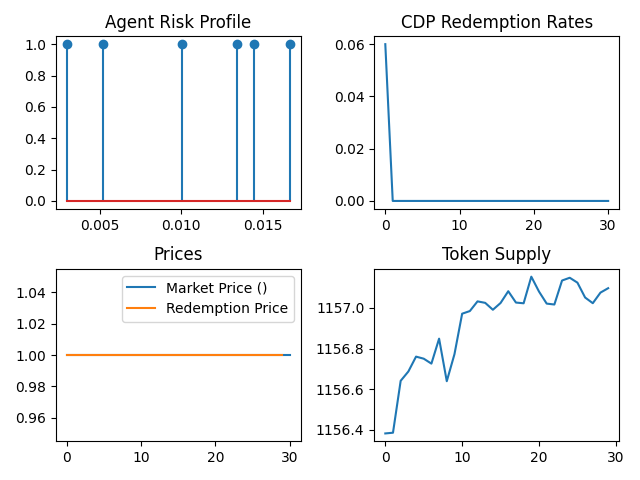
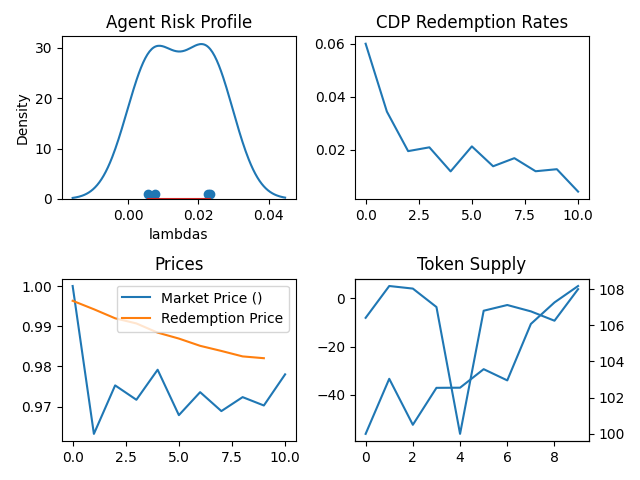
first version of integrated PID, GBM, and Daisim

diff --git a/feedback_sim.py b/feedback_sim.py
@@ -5,17 +5,13 @@ import matplotlib.pyplot as plt
 from daisim.util import set_defaults, SimState
 import numpy as np
 from dataclasses import dataclass, fields
+import seaborn as sns
 
 init_price=1.0
-SAMPLE=6
-DAYS=30
-rai=PID(initial_market_price=1.0, KP=.5) # TODO: Tune PID with Ziegler Method (Rudra?)
+SAMPLE=5
+DAYS=20
+rai=PID(initial_market_price=1.0, KP=.1) # TODO: Tune PID with Ziegler Method (Rudra?)
 params=set_defaults(SAMPLE,DAYS) #NOTE read  CDPRates, TXFs from config, sample = num agents ( as many as necessary to decently capture info )
-
-# NOTE: add some skew here where more risk-tolerant investors exist and risk-averse
-tolerant=[max((.005)-(.002)*i,.0001) for i in range(1,4)] #NOTE: must not be non-negative
-averse=[(.005)+(.002)*i for i in range(1,4)]
-averse.reverse()
 
 #NOTE: a particular hard-coded distribution where more risk-tolerant investors exist and risk-averse
 # tolerant=[max((.005)-(.002)*i,.0001) for i in range(1,4)] #NOTE: must not be non-negative
@@ -24,7 +20,7 @@ averse.reverse()
 params.lambdas=abs(np.random.normal(.005,.01,size=SAMPLE))
 
 # NOTE: Add Risk Bias Factor
-bias = 0.002
+bias = 0.005
 params.lambdas = [lam+bias for lam in params.lambdas]
 
 #NOTE: uncomment to see starter settings
@@ -42,7 +38,8 @@ ASSETS=get_assets(params.num_investors)
 RISK = params.lambdas
 
 # NOTE: Refactor the sim.py file into a "closed-loop" system with PID.py 
-def run_step( params : SimState , logdir = "sim-logs", logger=False, runs=1, display=False
+def run_step( params : SimState , logdir = "sim-logs", logger=False, runs=1, display=False, fig_suffix="", figdir="", 
+    controller=PID(initial_market_price=1.0, KP=.1)
 ):
     assets_runs,risk_params=generate_assets_and_risk(params.num_investors,"normal",runs)
     asset_history=[]
@@ -53,9 +50,8 @@ def run_step( params : SimState , logdir = "sim-logs", logger=False, runs=1, dis
 
     cur_assets=assets_runs # size should be (1, n, 4)  --> 1 run, n users, 4 assets 
     cur_dai_price = 1
-    
+
     for day in range(0, DAYS):
-        
         #--------------- MARKET SIM BLOCK -----------------------------------
         s = Simulator(
             belief_factor=params.belief_factor, rho=params.rho, cdpRate=params.cdp_rate, 
@@ -66,7 +62,9 @@ def run_step( params : SimState , logdir = "sim-logs", logger=False, runs=1, dis
         )
         s.dai_price = cur_dai_price
         dai_price, market_dai = s.run_simulation()
-        
+        dai_price=dai_price+np.random.normal(loc=0.0,scale=.005)
+        print("Check Market Change: ", market_dai)
+    
         # Definition of USER
         #  users = [User(self.initial_distribution[i], self.rho) for i in range(len(self.initial_distribution))]
 
@@ -79,11 +77,12 @@ def run_step( params : SimState , logdir = "sim-logs", logger=False, runs=1, dis
         # --------------- RESPONSE BLOCK -------------------------
         # TODO: Ensure Information Passing is Correct
         # TODO: probably check on the convert price to rate function too
-        rai.compute_error(dai_price)
-        rai.compute_new_redemption_price() 
-        p_redeem=rai.read_redemption_price()
+        controller.compute_error(dai_price)
+        controller.compute_new_redemption_price() 
+        p_redeem=controller.read_redemption_price()
         params.cdp_rate = convert_price_to_rate(p_redeem, dai_price)
-        if day % 2 == 0:
+        
+        if day % 5 == 0:
             print("day :", day)
 
         if (display):
@@ -94,11 +93,11 @@ def run_step( params : SimState , logdir = "sim-logs", logger=False, runs=1, dis
             print("New Redemption Price: ", p_redeem)
             print("New CDP Rate: ", params.cdp_rate)
             print("\n Check Rai Controller State")
-            print("Rai redeem price:" , rai.pr)
-            print("Rai Error", rai.errors)
-            print(rai.kp)
-            print(rai.target)
-            print(rai.mode)
+            print("Rai redeem price:" , controller.pr)
+            print("Rai Error", controller.errors)
+            print(controller.kp)
+            print(controller.target)
+            print(controller.mode)
             print("-----------------------\n")
 
         # NOTE Save Data   -- store asset_history and dump into a separate pickle file
@@ -106,13 +105,16 @@ def run_step( params : SimState , logdir = "sim-logs", logger=False, runs=1, dis
         cdp_rate_history.append(params.cdp_rate)
         dai_price_history.append(dai_price)
         market_dai_history.append(market_dai)
-        rai_price_history.append(rai.pr)
+        rai_price_history.append(controller.pr)
     
     from collections import Counter
     count_d=Counter(params.lambdas)
+    import pandas as pd
+    df=pd.DataFrame(params.lambdas,columns=["lambdas"])
     fig,ax=plt.subplots(2,2)
-    ax[0,0].stem(list(count_d.keys()), list(count_d.values()))
+    # ax[0,0].stem(list(count_d.keys()), list(count_d.values()))
     ax[0,0].set_title("Agent Risk Profile")
+    sns.kdeplot(df, x="lambdas", common_norm=False, ax=ax[0,0])
     ax[0,1].plot(cdp_rate_history)
     ax[0,1].set_title("CDP Redemption Rates")
     ax[1,0].plot(dai_price_history, label="Market Price ()")
@@ -120,14 +122,19 @@ def run_step( params : SimState , logdir = "sim-logs", logger=False, runs=1, dis
     ax[1,0].set_title("Prices")
     ax[1,1].plot(market_dai_history, label="Token Supply")
     ax[1,1].set_title("Token Supply")
+    ax2 = ax[1,1].twinx()
+    ax[1,1].set_ylabel('Token Supply')
+    ax2.plot(params.eth_price_per_day,color="firebrick",label="Eth Price Path")
+    ax2.set_ylabel('Eth Prices')
     ax[1,0].legend()
     fig.tight_layout()
-    plt.savefig("run_summary.png")
+    plt.savefig(f"{figdir}run_summary{fig_suffix}.png")
 
-    plt.figure()
-    plt.plot(params.eth_price_per_day)
-    plt.title("Eth Price Path")
-    plt.savefig("sim_eth_path.png")
+    # NOTE: no longer needed
+    # plt.figure()
+    # plt.plot(params.eth_price_per_day)
+    # plt.title("Eth Price Path")
+    # plt.savefig(f"{figdir}sim_eth_path{fig_suffix}.png")
     # plt.show()
 
 def convert_price_to_rate(p_redeem, p_dai=1):
@@ -143,11 +150,24 @@ def generate_assets_and_risk(sample_size, test_type, runs):
 
     return assets_runs, risk_params
 
+def run_pid_testing():
+    for KP in [0.1,0.25,0.5,0.75,1.0]:
+        rai=PID(initial_market_price=1.0, KP=KP) # TODO: Tune PID with Ziegler Method (Rudra?)
+        params=set_defaults(SAMPLE,DAYS) #NOTE read  CDPRates, TXFs from config, sample = num agents ( as many as necessary to decently capture info )
+        run_step(params,fig_suffix=f"_KP_{KP}",figdir="figs/")
+
+def make_test_pids():
+    rais=[]
+    for KP in [0.1,0.25,0.5,0.75,1.0]:
+        rais.append(PID(initial_market_price=1.0, KP=KP)) # TODO: Tune PID with Ziegler Method (Rudra?)
+    return rais
+
 
 if __name__ == "__main__":
-    run_step(params)
-
-
+    
+    rais=make_test_pids() #  run_pid_testing()
+    for rai in rais:
+        run_step(params,controller=rai,fig_suffix=f"_KP_{rai.kp}",figdir="figs/")
 
 
 

diff --git a/pid.py b/pid.py
@@ -1,0 +1,161 @@
+## Basic PID ---------------------------------------------------
+# https://www.youtube.com/watch?v=ZMI_kpNUgJM
+# Ziegler Nichols Method
+# I think the same method is recommended her by THOR Labs : https://www.thorlabs.com/newgrouppage9.cfm?objectgroup_id=9013#:~:text=To%20tune%20your%20PID%20controller,to%20roughly%20half%20this%20value.
+
+#------------------------------------------------------------------
+# Might be Able to Use GEKKO for simple real-time tuning idea ??
+# also nice will take away a lot of the coding effort and the model
+# can be more focused on fitting observations
+# https://gekko.readthedocs.io/en/latest/imode.html
+# https://www.youtube.com/watch?v=0LiNb_MEXmQ
+
+import numpy as np
+
+class PID(object):
+
+    def __init__(self,
+            KP=1.0,
+            KI=0.0,
+            KD=0.0,
+            initial_market_price=1.0,
+            initial_redemption_price=1.0,
+            target=1.0,
+            mode="floating",
+        ):
+        TS=.001
+        self.kp=KP
+        self.ki=KI
+        self.kd=KD
+        self.pm=initial_market_price
+        self.pr=initial_redemption_price
+        self.target=target
+        self.oracle=PriceOracle(initial_market_price) # potentially set forecaster vars here
+        self.error=initial_market_price - self.target
+        self.integral_error=0  #(sample time for continuos time) * TS
+        self.derivative_error=0
+        self.mode=mode
+        self.errors=[]
+
+    def read_redemption_price(self):
+        return self.pr
+
+    def read_error(self):
+        return self.error
+    
+    def read_rate(self):
+        return self.rate
+
+    def compute_error(self,observed_price):
+        if self.mode=="floating":
+            # self.target=self.oracle.compute_estimate(observed_price)
+            self.target=observed_price
+
+        temp=self.target-self.pr
+        self.integral_error+=temp
+        self.derivative_error = temp-self.error #(sample time for continuos time) * TS
+        self.error=temp
+        # self.errors.append(self.error)
+    
+    def compute_new_redemption_price(self):
+        self.rate = self.kp*self.error + self.ki*self.integral_error + self.kd*self.derivative_error
+        self.pr += self.rate
+
+    def set_mode(self,mode):
+        assert (mode in ["constant", "floating"])
+        self.mode=mode
+         
+
+import numpy as np
+
+class PriceOracle():
+
+    def __init__(self,init_price,n=10,gamma=0.8):
+        self.history=np.random.normal(init_price,scale=.005,size=10)
+        self.history[-1]=init_price
+        self.weights=self.normalize(np.array([gamma**(n-i-1) for i in range(n)]))
+        self.currprice=init_price#most recent observation
+    
+    def update(self,obs):
+        self.history[0:-2]=self.history[1:-1]
+        self.history[-1]=obs
+        self.currprice=np.dot(self.history,self.weights)
+        return 
+    
+    def read_price(self):
+        print(self.history)
+        # print(np.sum(self.weights))
+        return self.currprice
+    
+    def normalize(self,x):
+        return x/(np.sum(x))
+
+
+oracle=PriceOracle(1.05)
+init=oracle.read_price()
+curr=init
+rai=PID(KP=1.5,initial_market_price=init)
+redeems=[]
+errors=[]
+markets=[]
+
+
+if __name__ == "__main__":
+    # print("Redemptions ", redeems)
+    # print("Errors ", errors)
+    import matplotlib.pyplot as plt
+    fig,ax=plt.subplots(2,2)
+    KP=.05 # arbitrage rate
+    for(n,K) in enumerate([0.1, 0.5, 1, 1.5]):
+        i,j = n%2, n//2
+        init=1.05
+        da=0
+        curr=init
+        last=curr
+        rai=PID(KP=K,initial_market_price=init)
+        redeems=[1.0]
+        errors=[]
+        markets=[]
+        for __ in range(200):
+            # prices
+            # Unresponsive market:
+
+            curr=last+np.random.normal(scale=.05)
+            curr= curr+KP*(init-curr) #+np.random.normal(scale=.01)
+            
+            # np.random.normal(loc=da,scale=.001)
+            
+            # Oracle Test
+            # new=(init-curr) + np.random.normal(scale=.01) + init
+            # print("Market Obs: " , new)
+            # oracle.update(new)
+            # curr=oracle.read_price()
+            # print("Oracle Weighted: ", curr)
+
+            # PID Test
+            rai.compute_error(curr)
+            rai.compute_new_redemption_price()
+            pr=rai.read_redemption_price()
+            err=rai.read_error()
+            da=rai.read_rate()
+
+            errors.append(err)
+            markets.append(curr)
+            redeems.append(pr)
+
+            ax[i,j].plot(markets,label="market_price")
+            ax[i,j].plot(redeems,label="rai_price", alpha=.8, linestyle="--")
+            # ax[i,j].plot(errors, label="input error")
+            ax[i,j].legend()
+            ax[i,j].set_ylim([.5,1.5])
+            ax[i,j].set_title(f"RAI Kp Value: {K}",)
+            fig.tight_layout()
+            fig.suptitle("Redemption v. Market Price Comparison \n (Without Feedback)")
+
+        plt.show()
+
+
+
+
+
+

diff --git a/plot_test.py b/plot_test.py
@@ -1,0 +1,28 @@
+import matplotlib.pyplot as plt
+
+# Example data
+time = [0, 1, 2, 3, 4, 5]
+series1 = [-0.5, -0.2, 0.1, 0.4, 0.8, 1.0]  # Range between -1 and 1
+series2 = [50, 100, 150, 200, 250, 300]     # Range between 0 and 300
+
+# Create figure and primary axis
+fig, ax1 = plt.subplots()
+
+# Plot the first time series on the primary y-axis
+ax1.plot(time, series1, 'b-', label='Series 1')
+ax1.set_xlabel('Time')
+ax1.set_ylabel('Series 1', color='b')
+# ax1.set_ylim(-1, 1)  # Set y-axis limits for Series 1
+
+# Create a secondary y-axis
+ax2 = ax1.twinx()
+ax2.plot(time, series2, 'r-', label='Series 2')
+ax2.set_ylabel('Series 2', color='r')
+# ax2.set_ylim(0, 300)  # Set y-axis limits for Series 2
+
+# Optionally, adjust the second y-axis scale to match the visual trends
+# This is a simple linear scaling, adjust as needed to fit your data
+ax2.set_ylim(ax1.get_ylim()[0] * 150, ax1.get_ylim()[1] * 150)
+
+# Display the plot
+plt.show()

diff --git a/DAISIM/gbm.py b/DAISIM/gbm.py
@@ -1,0 +1,29 @@
+import numpy as np
+import matplotlib.pyplot as plt
+#https://stackoverflow.com/questions/45021301/geometric-brownian-motion-simulation-in-python
+
+def gen_paths(S0, r, sigma, T, M, I):
+    dt = float(T) / M
+    paths = np.zeros((M + 1, I), np.float64)
+    paths[0] = S0
+    for t in range(1, M + 1):
+        rand = np.random.standard_normal(I)
+        paths[t] = paths[t - 1] * np.exp((r - 0.5 * sigma ** 2) * dt +
+                                         sigma * np.sqrt(dt) * rand)
+    return paths
+
+
+if __name__ == "__main__":
+    S0=300
+    r=.008
+    sigma=.1
+    T=10 # num periods ( "10 days")
+    M=24 # frequency (samples per period -- "24 Hours")
+    I=50 # num paths to generate
+
+    paths=gen_paths(S0,r,sigma,T,M,I)
+
+    for p in paths.T:
+        plt.plot(p)
+    
+    plt.show()
